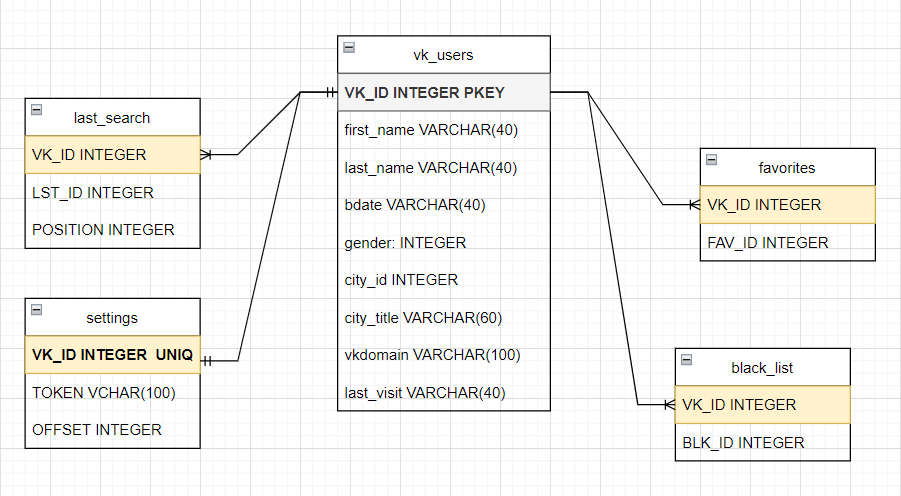
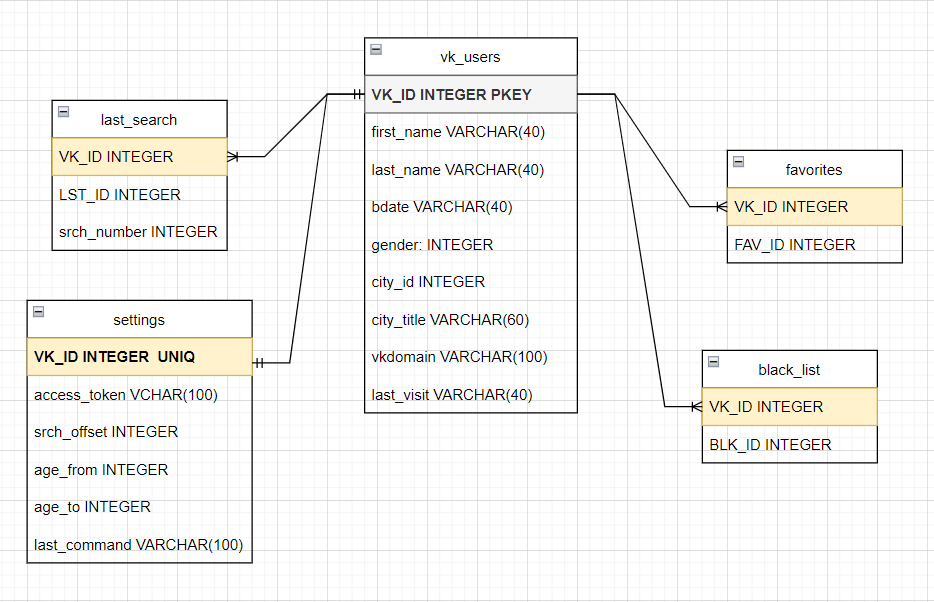
databases.py

diff --git a/modules/db/databases.py b/modules/db/databases.py
@@ -1,0 +1,72 @@
+###########################
+# файл: databases.py
+# version: 0.1.1
+###########################
+
+import dataclasses
+from xmlrpc.client import Boolean
+
+from modules.db.dataclasses import VKUserData
+
+# класс для взаимодействия с базой данных
+class DataBase(object):
+
+    # функция инициализации класса
+    def __init__(self):
+        pass
+    # end __init__()
+
+    # функция получения данных пользователя ВКонтакте из базы данных
+    def get_vkuser(self, vk_id : int) -> VKUserData:
+        pass
+
+    # функция сохранения данных о пользователе ВКонтакте в базу данных
+    def new_vkuser(self, vk_user : VKUserData) -> Boolean:
+        pass
+
+    # удалить пользователя ВКонтакте в базе данных
+    def del_vkuser(self, vk_id : int) -> Boolean:
+        pass
+
+    # получить список избранных контактов
+    def get_favorites(self, vk_id : int) -> list:
+        pass
+
+    # сохранить в базе данных информацию об избранном контакте
+    def new_favirite(self, vk_id : int, fav_id : int) -> Boolean:
+        pass
+
+    # удалить избранный контакт у пользовалетя из базы данных
+    def del_favotite(self, vk_id: int, fav_id : int) -> Boolean:
+        pass
+
+    # удалить все избранные контакты пользователя
+    def del_all_favorites(self, vk_id : int) -> Boolean:
+        pass
+
+    # получить список заблокированных контактов
+    def get_black_list(self, vk_id : int) -> list:
+        pass
+
+    # сохранить заблокированный контакт
+    def new_black_id(self, vk_id: int, blk_id : int) -> Boolean:
+        pass
+
+    # удалить контакт из заблокированных
+    def del_black_id(self, vk_id : int, blk_id : int) -> Boolean:
+        pass
+
+    # удалить весь "блэк лист" пользователя
+    def del_black_list(self, vk_id : int) -> Boolean:
+        pass
+
+    # 
+    def get_setings(self, vk_user: VKUserData) -> Boolean:
+        pass
+
+    #
+    def update_settings(self, vk_user: VKUserData) -> Boolean:
+        pass
+
+
+# end class DataBase

diff --git a/modules/db/dataclasses.py b/modules/db/dataclasses.py
@@ -1,6 +1,6 @@
 ###########################
-# файл: dataclass.py
-# version: 0.1.1
+# файл: dataclasses.py
+# version: 0.1.2
 ###########################
 
 # Пол пользователя ВКонтакте
@@ -28,21 +28,24 @@ class VKUserData(object):
     vkdomain: str
     # Дата время последнего общения с ботом
     last_visit: str
+    # дополнительные свойства пользователя ВКонтакте
+    settings : list
 
     #инициализация класса
     def __init__(self):
         super().__init__()
 
         # инициализация данных "по умолчанию"
-        self.vk_id = 0
+        self.vk_id = -1
         self.first_name = ''
         self.last_name = ''
         self.bdate = ''
-        self.gender = 0
-        self.city_id = 0
+        self.gender = VK_UNKNOWN_GENDER
+        self.city_id = -1
         self.city_title = ''
         self.vkdomain = ''
         self.last_visit = ''
+        self.settings = {'access_token' : '', 'srch_offset' : -1, 'age_from' : -1, 'age_to' : -1, 'last_command' : ''}
     # end __init__()
 
     # вывод данных о пользователе в формате json
